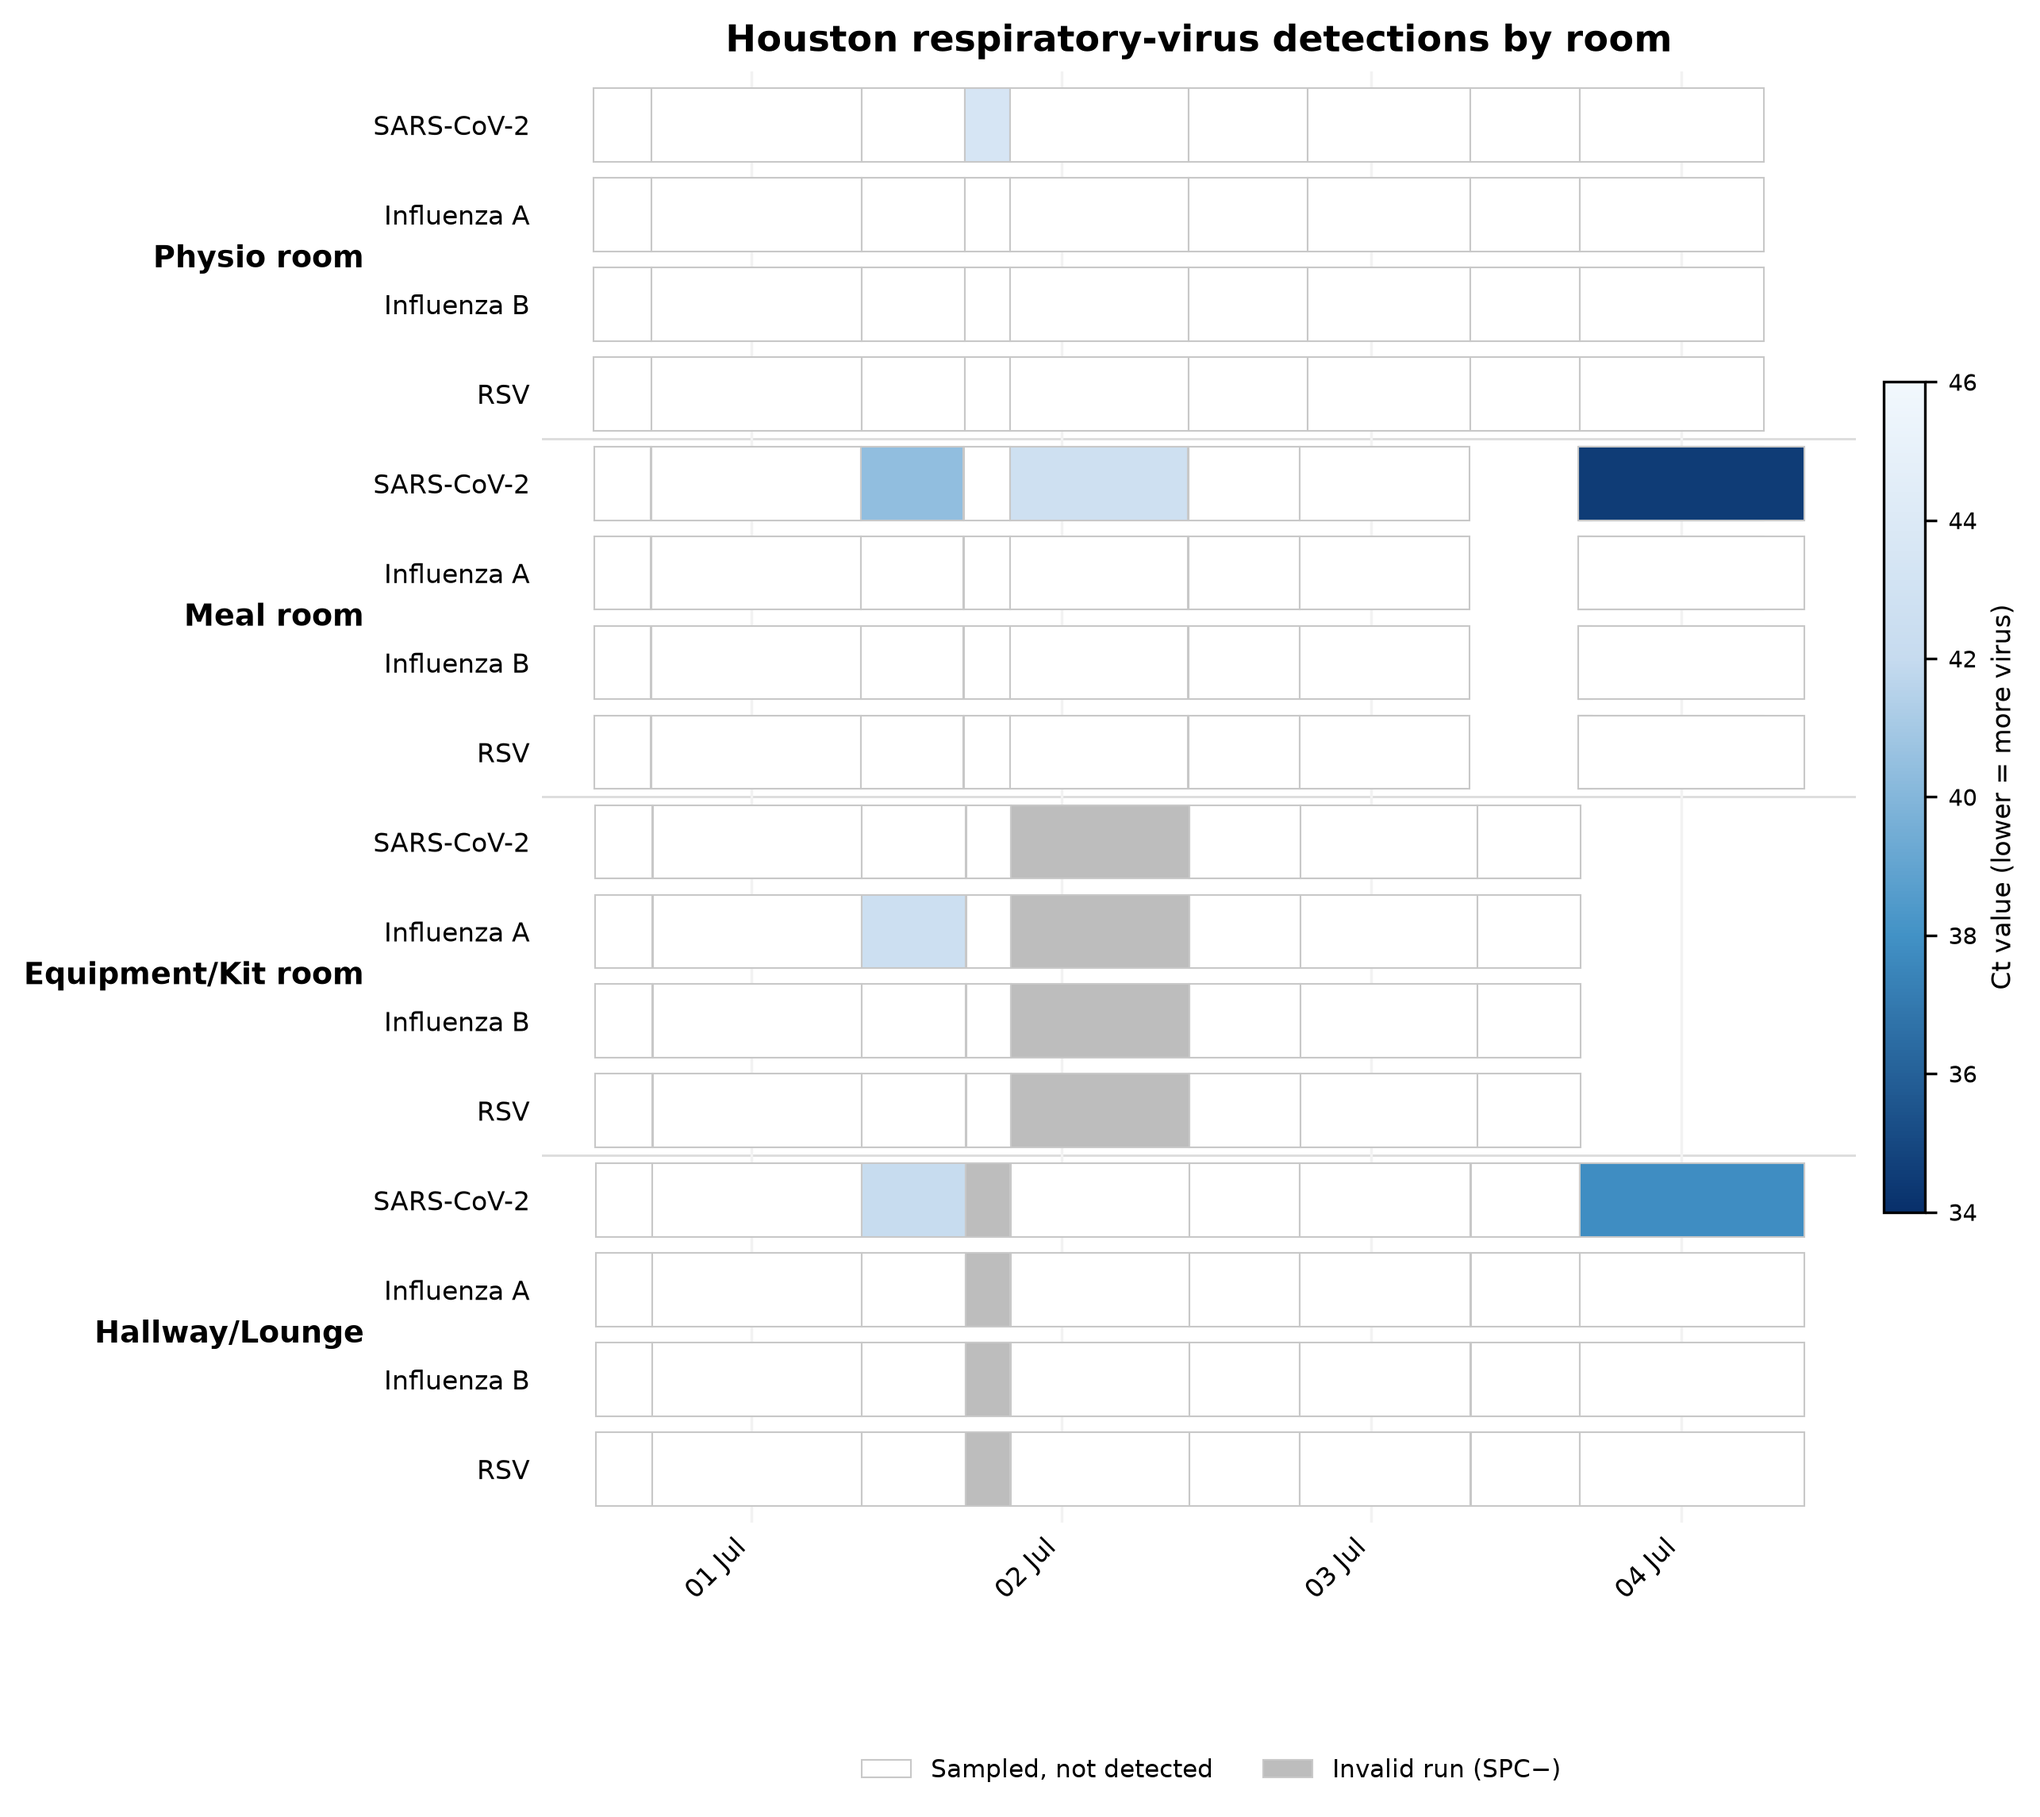
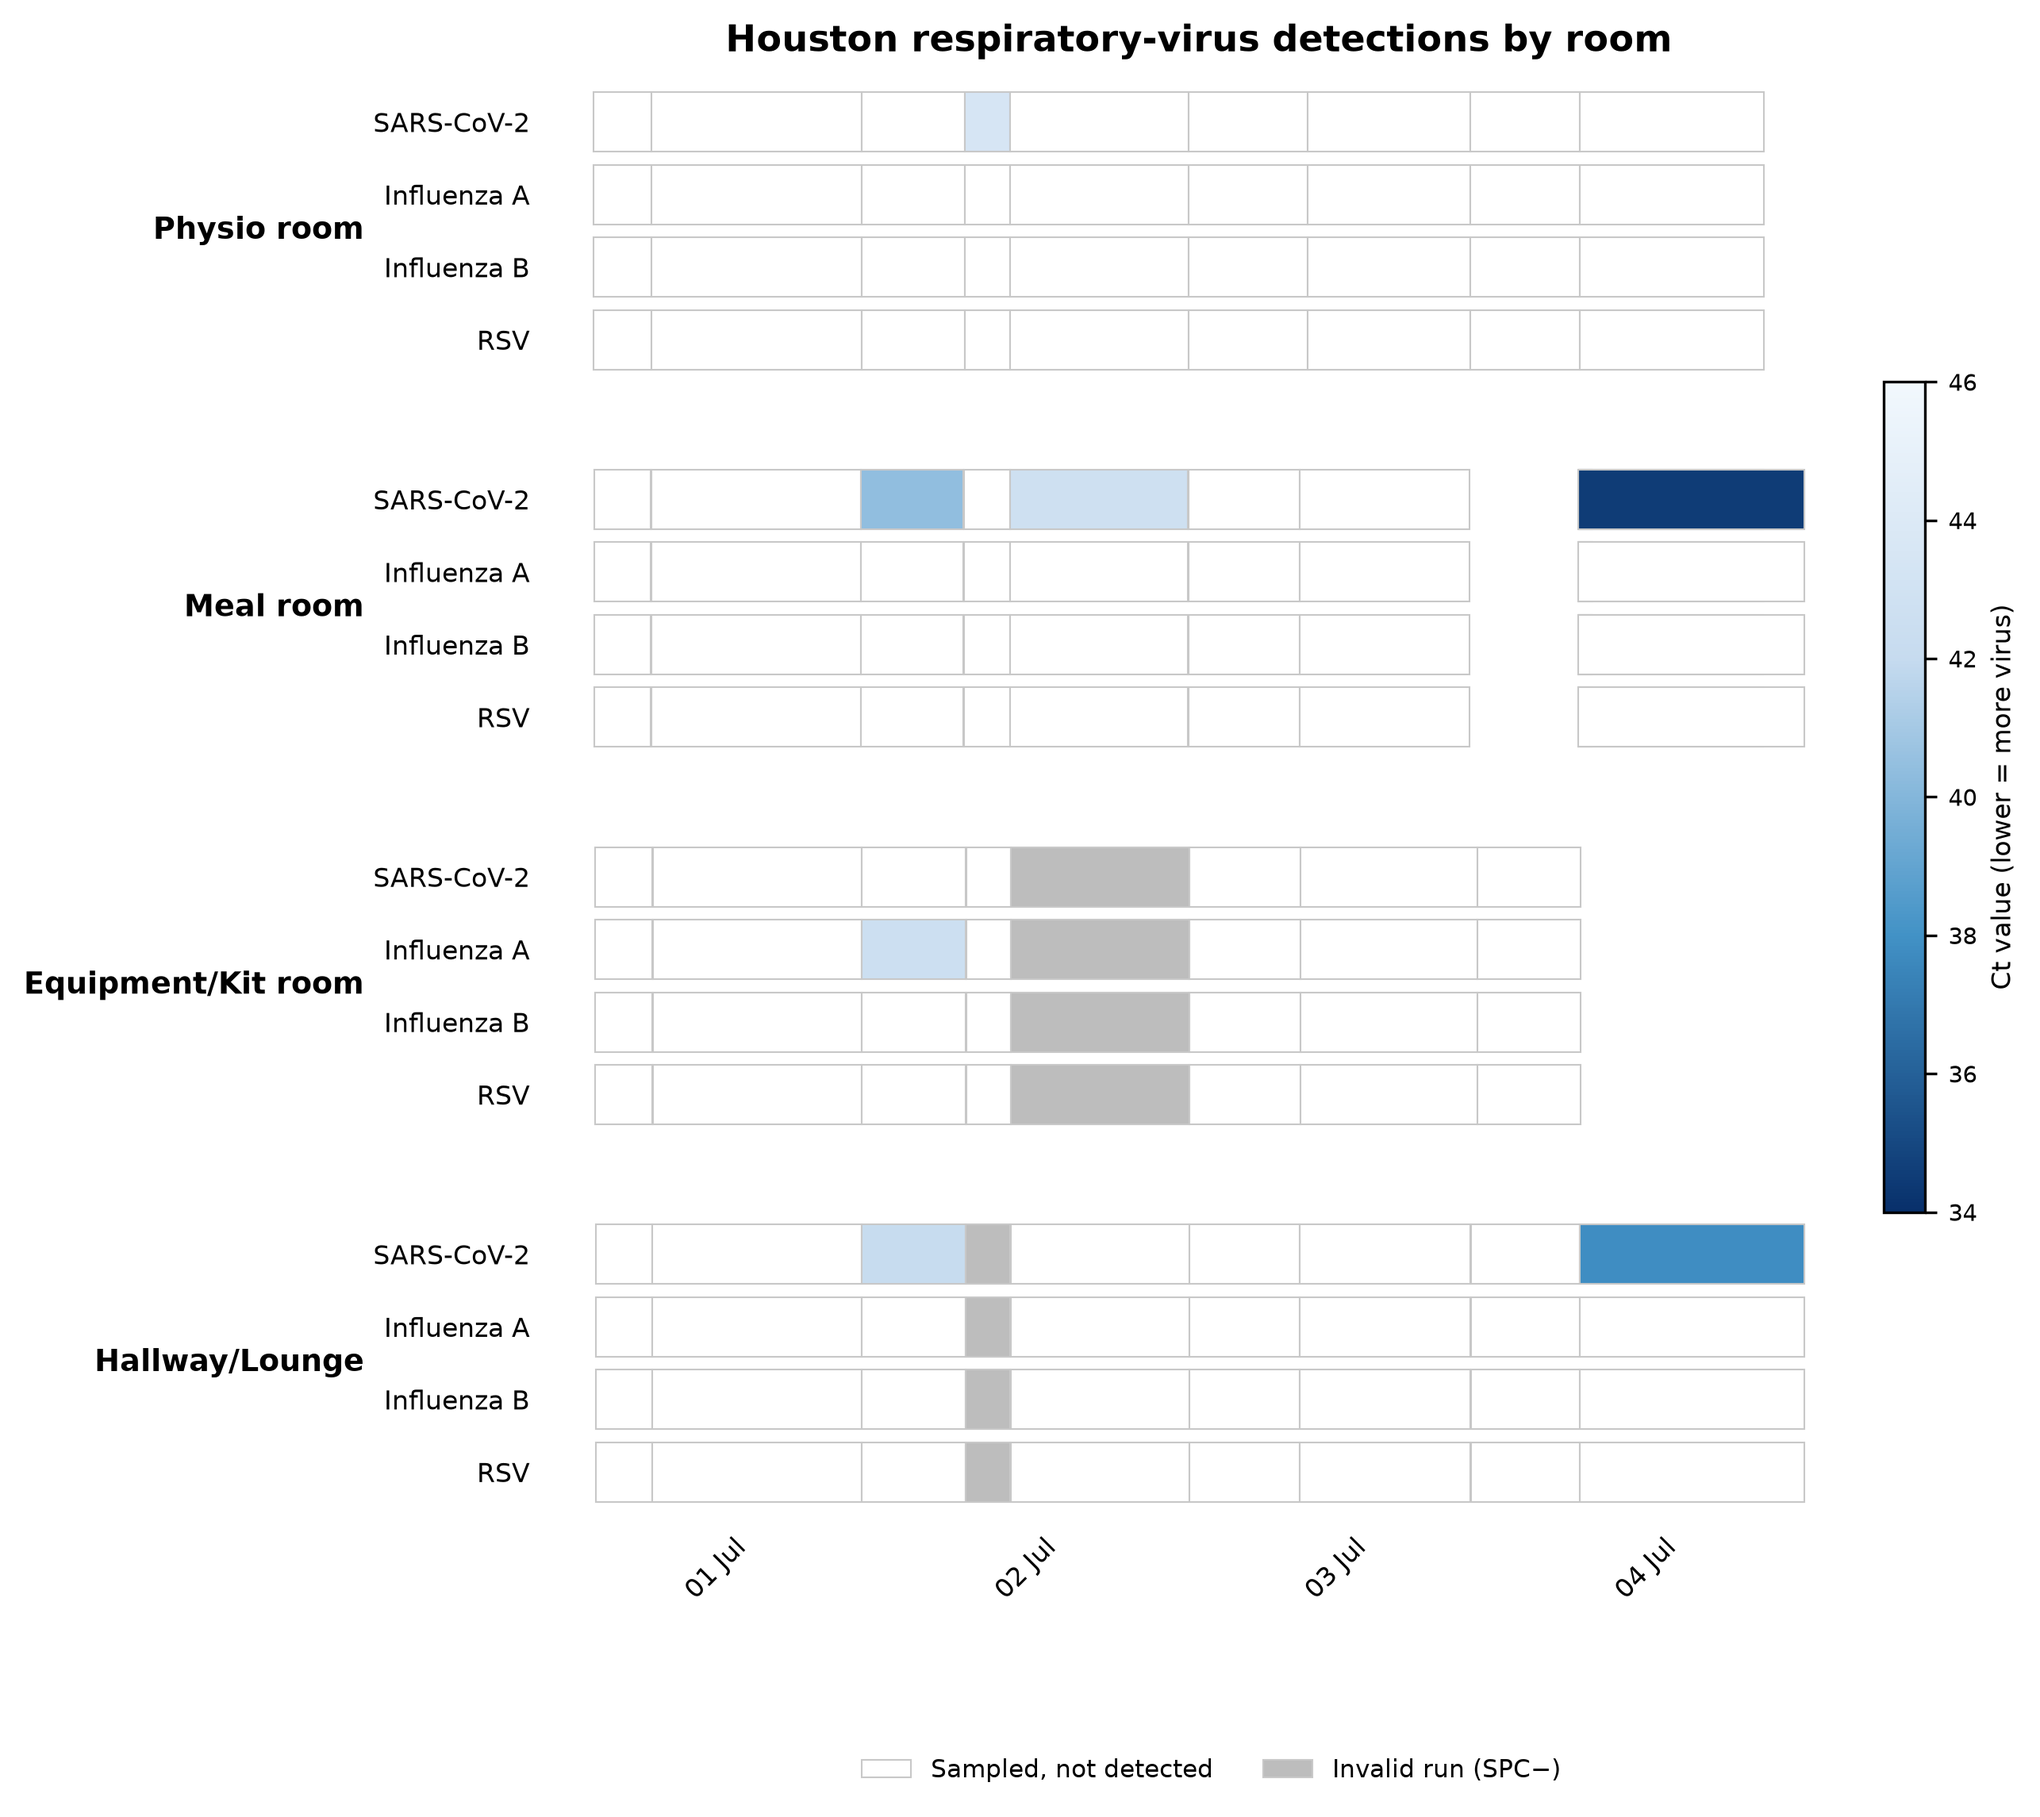
Figure styling fixes from co-author review
Figure 1: negative cells are now white with a light-grey border (were
light-grey filled), and detections/invalids carry the same light-grey border
(were white), so every box is styled consistently.

Figure 2: added vertical spacing between room blocks, removed the horizontal
room-separator lines and the x-axis gridlines for a cleaner per-room read.

Supplemental Figure 1: the Houston sampling-window band is now a solid gold bar
like the other cities; removed the confusing cross-hatch and dotted feed-ends
marker (the feed's end date is noted in the legend/methods instead).

diff --git a/analysis/make_figures.py b/analysis/make_figures.py
@@ -274,22 +274,21 @@ def build_static(df: pd.DataFrame, out_pdf: pathlib.Path, out_png: pathlib.Path)
     ax.set_xlim(mdates.date2num(t0), mdates.date2num(t1))
     ax.set_ylim(-0.6, len(yorder) - 0.4)
 
-    # One box per session x virus. Negatives are a soft light-grey fill with a
-    # subtle edge so each individual sampling interval remains visible; detections
-    # and invalids sit on top with a white edge so each stands out.
-    NEG_FILL = "#eef1f4"
+    # One box per session x virus. Every box carries the same thin light-grey
+    # border so individual sampling intervals stay visible. Valid negatives are
+    # white; detections are filled by Ct and invalids grey, and sit on top.
     cells = _merge_cells(df)
     for r in cells[cells.status == "neg"].itertuples():
         x0 = mdates.date2num(r.start)
         ax.add_patch(plt.Rectangle(
             (x0, ypos[r.virus] - ROW_H / 2), mdates.date2num(r.end) - x0, ROW_H,
-            facecolor=NEG_FILL, edgecolor=NEG_EDGE, linewidth=0.4, zorder=1))
+            facecolor=NEG_COLOR, edgecolor=NEG_EDGE, linewidth=0.4, zorder=1))
     for r in cells[cells.status != "neg"].itertuples():
         x0 = mdates.date2num(r.start)
         fc = ct_hex(r.ct) if r.status == "det" else INVALID_COLOR
         ax.add_patch(plt.Rectangle(
             (x0, ypos[r.virus] - ROW_H / 2), mdates.date2num(r.end) - x0, ROW_H,
-            facecolor=fc, edgecolor="white", linewidth=0.6, zorder=3))
+            facecolor=fc, edgecolor=NEG_EDGE, linewidth=0.5, zorder=3))
 
     # asterisk beneath each cartridge that had an invalid run (SPC did not
     # amplify), placed at the run's real time on the axis. These sessions still
@@ -331,7 +330,7 @@ def build_static(df: pd.DataFrame, out_pdf: pathlib.Path, out_png: pathlib.Path)
     cbar.set_label("Ct value (lower = more virus)", fontsize=8)
     cbar.ax.tick_params(labelsize=7)
     fig.subplots_adjust(bottom=0.26)
-    handles = [plt.Rectangle((0, 0), 1, 1, fc="#eef1f4", ec=NEG_EDGE, lw=0.5)]
+    handles = [plt.Rectangle((0, 0), 1, 1, fc=NEG_COLOR, ec=NEG_EDGE, lw=0.5)]
     fig.legend(handles,
                ["Sampled, no viral genetic material detected        "
                 "*  one or more rooms invalid this session (SPC did not amplify)"],
@@ -350,11 +349,39 @@ def build_figure2(df: pd.DataFrame, city: str,
                   out_pdf: pathlib.Path, out_png: pathlib.Path) -> None:
     sub = df[df.city == city].copy()
     rooms = [r for r in ROOM_ORDER if r in sub["room"].unique()]
-    # y = room x virus (four virus sub-rows per room), grouped by room
-    ycats = [(room, v) for room in rooms for v in VIRUS_ORDER]
-    ypos = {rv: i for i, rv in enumerate(reversed(ycats))}
+    # y = room x virus (four virus sub-rows per room), grouped by room with a
+    # blank gap between room blocks so the groups read as distinct.
+    ROOM_GAP = 1.2                 # extra blank rows between room blocks
+    n_v = len(VIRUS_ORDER)
+    # Assign a y-coordinate to each (room, virus). Rooms stack top-to-bottom, so
+    # the first room gets the highest y-values.
+    ypos, yticks, yticklabels = {}, [], []
+    room_span = {}
+    n_rooms = len(rooms)
+    slot = 0.0
+    for room in rooms:
+        block_positions = []
+        for v in VIRUS_ORDER:
+            block_positions.append(slot)
+            slot += 1.0
+        # invert so the first virus sits at the top of its block
+        top_slot = block_positions[0]
+        bot_slot = block_positions[-1]
+        for v, s in zip(VIRUS_ORDER, block_positions):
+            ypos[(room, v)] = s
+            yticks.append(s)
+            yticklabels.append(v)
+        room_span[room] = (top_slot, bot_slot)
+        slot += ROOM_GAP
+    total = slot - ROOM_GAP
+    # flip vertically so first room is on top
+    def flip(y):
+        return total - y
+    ypos = {k: flip(v) for k, v in ypos.items()}
+    yticks = [flip(t) for t in yticks]
+    room_span = {r: (flip(a), flip(b)) for r, (a, b) in room_span.items()}
 
-    fig, ax = plt.subplots(figsize=(7.5, 0.42 * len(ycats) + 1.2))
+    fig, ax = plt.subplots(figsize=(7.5, 0.42 * len(rooms) * n_v + 1.2))
     c0, c1 = sub["start"].min(), sub["end"].max()
     pad = pd.Timedelta(hours=4)
     ax.set_xlim(mdates.date2num(c0 - pad), mdates.date2num(c1 + pad))
@@ -366,24 +393,20 @@ def build_figure2(df: pd.DataFrame, city: str,
             continue
         _draw_box(ax, r, ypos[yk], ROW_H)
 
-    # y tick labels: show virus name; add a bold room label + separators
-    ax.set_yticks(range(len(ycats)))
-    ax.set_yticklabels([v for (_room, v) in reversed(ycats)], fontsize=8)
-    for k, room in enumerate(rooms):
-        top = ypos[(room, VIRUS_ORDER[0])]
-        bot = ypos[(room, VIRUS_ORDER[-1])]
-        ymid = (top + bot) / 2
+    # y tick labels: virus name per sub-row, bold room label centred on the block
+    ax.set_yticks(yticks)
+    ax.set_yticklabels(yticklabels, fontsize=8)
+    for room in rooms:
+        a, b = room_span[room]
+        ymid = (a + b) / 2
         ax.text(-0.135, ymid, room, transform=ax.get_yaxis_transform(),
                 ha="right", va="center", fontsize=9, fontweight="bold")
-        if k < len(rooms) - 1:
-            ax.axhline(min(top, bot) - 0.5, color="#dddddd", lw=0.7, zorder=0)
 
-    ax.set_ylim(-0.6, len(ycats) - 0.4)
+    ax.set_ylim(min(ypos.values()) - 0.7, max(ypos.values()) + 0.7)
     ax.xaxis.set_major_locator(mdates.DayLocator(interval=1))
     ax.xaxis.set_major_formatter(mdates.DateFormatter("%d %b"))
     for lab in ax.get_xticklabels():
         lab.set(rotation=45, ha="right", fontsize=8)
-    ax.grid(axis="x", color=GRID, zorder=0)
     for s in ax.spines.values():
         s.set_visible(False)
     ax.tick_params(length=0)

diff --git a/analysis/make_figure3.py b/analysis/make_figure3.py
@@ -80,7 +80,6 @@ VISIT = {
     "Los Angeles": ("2026-06-27", "2026-06-28"),
     "Houston": ("2026-06-30", "2026-07-04"),
 }
-HOUSTON_FEED_ENDS = pd.Timestamp("2026-06-22")
 
 # Non-detect floor values in the Canadian aggregate (detection-limit
 # substitutions); anything at/below these is plotted but flagged as non-detect.
@@ -159,13 +158,10 @@ def build_static(out_pdf: pathlib.Path, out_png: pathlib.Path) -> None:
             d1 = mid + pd.Timedelta(days=min_days / 2)
         else:
             d0, d1 = v0, v1
-        ax.axvspan(d0, d1, color="#f2c94c", alpha=0.40, zorder=1, lw=0)
-        if city == "Houston":
-            # feed ends before the visit: hatch the un-covered part of the band
-            ax.axvspan(HOUSTON_FEED_ENDS, d1, facecolor="none",
-                       edgecolor="#b58900", hatch="////", lw=0.0, zorder=2)
-            ax.axvline(HOUSTON_FEED_ENDS, color="#b58900", lw=0.8, ls=":",
-                       zorder=2)
+        # Solid gold band marking Team Canada's stay in every city. (In Houston
+        # the public feed ends before the visit, which is stated in the legend,
+        # so the band itself stays solid rather than hatched.)
+        ax.axvspan(d0, d1, color="#f2c94c", alpha=0.55, zorder=1, lw=0)
 
         # panel letter + city + metric, placed just ABOVE the plot area (in the
         # inter-panel gap) so long virus lines never collide with the label
@@ -196,7 +192,7 @@ def build_static(out_pdf: pathlib.Path, out_png: pathlib.Path) -> None:
     # single shared virus legend + a visit-band key, across the top
     virus_handles = [plt.Line2D([0], [0], color=VIRUS_COLOR[t], lw=2,
                                 label=VIRUS_LABEL[t]) for t in VIRUS_ORDER]
-    band = plt.Rectangle((0, 0), 1, 1, fc="#f2c94c", alpha=0.35,
+    band = plt.Rectangle((0, 0), 1, 1, fc="#f2c94c", alpha=0.55,
                          label="Team Canada sampling window")
     nd = plt.Line2D([0], [0], marker="o", color="#888", mfc="white", mew=0.8,
                     ls="none", ms=5, label="non-detect (at detection floor)")
@@ -239,11 +235,8 @@ def build_interactive(out: pathlib.Path) -> None:
                 row=i, col=1)
         # visit band
         v0, v1 = VISIT[city]
-        fig.add_vrect(x0=v0, x1=v1, fillcolor="#f2c94c", opacity=0.3,
+        fig.add_vrect(x0=v0, x1=v1, fillcolor="#f2c94c", opacity=0.55,
                       line_width=0, row=i, col=1)
-        if city == "Houston":
-            fig.add_vline(x=HOUSTON_FEED_ENDS, line=dict(color="#b58900",
-                          width=1, dash="dot"), row=i, col=1)
         # shared y-range for the three Canadian panels; own scale otherwise
         if city in CANADA:
             fig.update_yaxes(range=[0, ca_ylim], title_text="rel. level",
